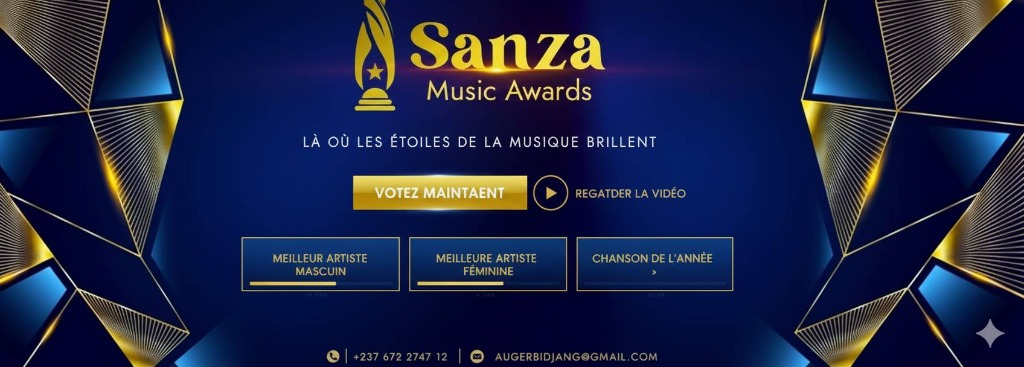
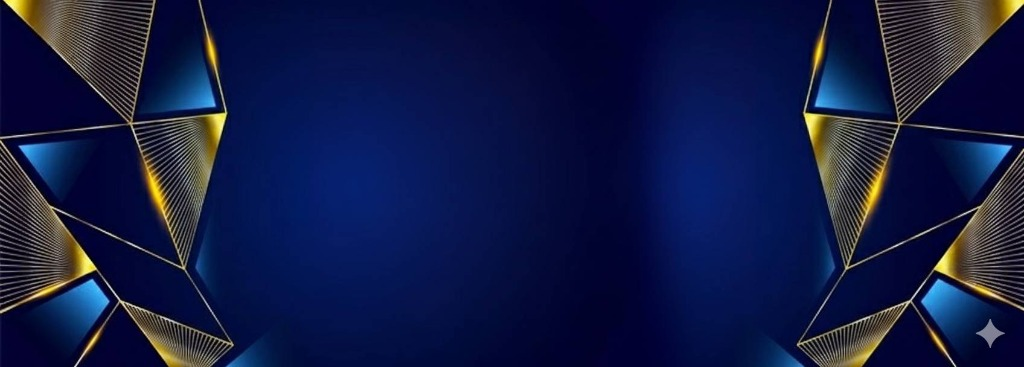
UI: Refined premium background and fixed category redirection

diff --git a/src/pages/Landing.jsx b/src/pages/Landing.jsx
@@ -6,14 +6,20 @@ import SanzaTrophy from '../components/ui/SanzaTrophy';
 const Landing = () => {
     return (
         <div className="flex flex-col min-h-screen bg-[#051040] text-white pb-24 font-sans overflow-x-hidden relative">
-            {/* Background with deep blue gradient & geometric pattern */}
-            <div className="fixed inset-0 z-0">
+            {/* Dynamic Luxury Background */}
+            <div className="fixed inset-0 z-0 overflow-hidden">
+                {/* Main Image Layer - Stays centered and covers reasonably */}
                 <div
-                    className="absolute inset-0 bg-cover bg-center bg-no-repeat opacity-40 md:opacity-100 transition-opacity duration-1000"
-                    style={{ backgroundImage: 'url("/hero-bg.png")' }}
+                    className="absolute inset-0 bg-cover bg-center bg-no-repeat transition-all duration-1000 scale-105"
+                    style={{ backgroundImage: 'url("/hero-bg-2.jpg")' }}
                 />
-                <div className="absolute inset-0 bg-gradient-to-b from-[#051040] via-[#051040]/80 to-[#051040]" />
-                <div className="absolute inset-0 bg-[radial-gradient(circle_at_center,_rgba(253,185,49,0.15)_0%,_rgba(5,16,64,0)_60%)]" />
+
+                {/* Dark Overlay for content area - ensures text readability and concentrates focus */}
+                <div className="absolute inset-0 bg-gradient-to-r from-[#051040]/30 via-[#051040]/90 to-[#051040]/30 md:from-transparent md:via-[#051040]/40 md:to-transparent" />
+                <div className="absolute inset-0 bg-gradient-to-b from-[#051040]/60 via-transparent to-[#051040]" />
+
+                {/* Subtle light glow behind the main logo block */}
+                <div className="absolute top-1/2 left-1/2 -translate-x-1/2 -translate-y-1/2 w-full h-full bg-[radial-gradient(circle_at_center,_rgba(253,185,49,0.1)_0%,_rgba(5,16,64,0)_50%)]" />
             </div>
 
             {/* Header */}
@@ -32,35 +38,35 @@ const Landing = () => {
 
             <div className="flex-1 flex flex-col items-center justify-center relative w-full z-10">
 
-                {/* Hero Section */}
+                {/* Hero Section Content */}
                 <div className="w-full min-h-[70vh] flex flex-col items-center justify-center p-4">
 
                     {/* Main Logo Block */}
-                    <div className="flex flex-row items-center justify-center gap-2 md:gap-6 mb-12 transform scale-90 md:scale-100">
+                    <div className="flex flex-row items-center justify-center gap-4 md:gap-8 mb-12 transform scale-90 md:scale-100">
                         {/* Trophy Icon */}
                         <motion.div
-                            animate={{ y: [-4, 4, -4] }}
-                            transition={{ duration: 12, repeat: Infinity, ease: "easeInOut" }}
-                            className="h-[80px] md:h-[180px] lg:h-[240px] flex-shrink-0"
+                            animate={{ y: [-6, 6, -6] }}
+                            transition={{ duration: 10, repeat: Infinity, ease: "easeInOut" }}
+                            className="h-[120px] md:h-[220px] lg:h-[280px] flex-shrink-0"
                         >
-                            <SanzaTrophy className="h-full w-auto drop-shadow-[0_0_25px_rgba(253,185,49,0.5)]" />
+                            <SanzaTrophy className="h-full w-auto drop-shadow-[0_0_35px_rgba(253,185,49,0.6)]" />
                         </motion.div>
 
                         {/* Text Block */}
                         <div className="flex flex-col items-start justify-center">
                             <motion.h1
-                                initial={{ opacity: 0, x: 20 }}
+                                initial={{ opacity: 0, x: 30 }}
                                 animate={{ opacity: 1, x: 0 }}
                                 transition={{ duration: 0.8 }}
-                                className="text-5xl md:text-8xl lg:text-9xl font-bold leading-none tracking-tighter text-transparent bg-clip-text bg-gradient-to-b from-[#FFD700] via-[#FDB931] to-[#C49102] drop-shadow-sm font-serif"
+                                className="text-6xl md:text-9xl lg:text-[10rem] font-bold leading-none tracking-tighter text-transparent bg-clip-text bg-gradient-to-b from-[#FFD700] via-[#FDB931] to-[#C49102] drop-shadow-sm font-serif"
                             >
                                 Sanza
                             </motion.h1>
                             <motion.h2
-                                initial={{ opacity: 0, x: 20 }}
+                                initial={{ opacity: 0, x: 30 }}
                                 animate={{ opacity: 1, x: 0 }}
                                 transition={{ duration: 0.8, delay: 0.2 }}
-                                className="text-lg md:text-3xl lg:text-4xl font-light text-[#FDB931] uppercase tracking-[0.2em] md:tracking-[0.3em] pl-1 md:pl-2"
+                                className="text-xl md:text-4xl lg:text-5xl font-light text-[#FDB931] uppercase tracking-[0.2em] md:tracking-[0.4em] pl-1 md:pl-3"
                             >
                                 Music Awards
                             </motion.h2>
@@ -72,53 +78,57 @@ const Landing = () => {
                         initial={{ opacity: 0 }}
                         animate={{ opacity: 1 }}
                         transition={{ delay: 0.5, duration: 1 }}
-                        className="text-white text-[10px] md:text-sm tracking-[0.2em] md:tracking-[0.4em] uppercase mb-16 font-light text-center px-4"
+                        className="text-white text-[10px] md:text-sm tracking-[0.3em] md:tracking-[0.5em] uppercase mb-16 font-light text-center px-4"
                     >
                         Là où les étoiles de la musique brillent
                     </motion.p>
 
                     {/* CTA Buttons */}
                     <motion.div
-                        initial={{ opacity: 0, y: 20 }}
+                        initial={{ opacity: 0, y: 30 }}
                         animate={{ opacity: 1, y: 0 }}
                         transition={{ delay: 0.7 }}
-                        className="flex flex-col items-center gap-8 w-full max-w-md"
+                        className="flex flex-col items-center gap-10 w-full max-w-md"
                     >
                         <Link to="/categories" className="w-full md:w-auto">
-                            <button className="w-full md:w-auto px-12 py-4 bg-gradient-to-r from-[#DF9F28] via-[#FDB931] to-[#DF9F28] text-[#051040] font-bold uppercase tracking-widest text-sm rounded-full shadow-[0_4px_20px_rgba(253,185,49,0.3)] hover:scale-105 transition-transform duration-300">
+                            <button className="w-full md:w-auto px-16 py-5 bg-gradient-to-r from-[#DF9F28] via-[#FDB931] to-[#DF9F28] text-[#051040] font-black uppercase tracking-widest text-sm rounded-full shadow-[0_4px_30px_rgba(253,185,49,0.4)] hover:scale-105 active:scale-95 transition-all duration-300">
                                 Votez Maintenant
                             </button>
                         </Link>
 
                         <button
                             onClick={() => window.open('https://youtube.com', '_blank')}
-                            className="group flex items-center gap-3 text-[#FDB931]/90 hover:text-white transition-colors uppercase text-[10px] md:text-xs font-medium tracking-widest"
+                            className="group flex items-center gap-4 text-[#FDB931]/90 hover:text-white transition-colors uppercase text-[10px] md:text-xs font-bold tracking-[0.3em]"
                         >
-                            <div className="w-8 h-8 rounded-full border border-[#FDB931] group-hover:border-white flex items-center justify-center transition-colors">
-                                <Play size={10} fill="currentColor" className="ml-0.5" />
+                            <div className="w-10 h-10 rounded-full border border-[#FDB931] group-hover:border-white group-hover:scale-110 flex items-center justify-center transition-all duration-300">
+                                <Play size={12} fill="currentColor" className="ml-1" />
                             </div>
                             Regarder la vidéo
                         </button>
                     </motion.div>
                 </div>
 
-                {/* Footer Category Preview (Desktop Only for Layout Balance, visible on mobile as vertical list) */}
+                {/* Footer Category Preview (Responsive & Linked) */}
                 <motion.div
-                    initial={{ opacity: 0 }}
-                    animate={{ opacity: 1 }}
+                    initial={{ opacity: 0, y: 50 }}
+                    animate={{ opacity: 1, y: 0 }}
                     transition={{ delay: 1 }}
-                    className="w-full max-w-6xl mx-auto px-4 mt-8 pb-8 z-10"
+                    className="w-full max-w-6xl mx-auto px-4 mt-12 pb-12 z-10"
                 >
-                    <div className="grid grid-cols-1 md:grid-cols-3 gap-3 md:gap-6">
+                    <div className="grid grid-cols-1 md:grid-cols-3 gap-4 md:gap-8">
                         {[
-                            { title: "MEILLEUR ARTISTE", subtitle: "MASCULIN" },
-                            { title: "MEILLEURE ARTISTE", subtitle: "FÉMININE" },
-                            { title: "CHANSON DE", subtitle: "L'ANNÉE" }
+                            { title: "MEILLEUR ARTISTE", subtitle: "MASCULIN", id: 2 },
+                            { title: "MEILLEURE ARTISTE", subtitle: "FÉMININE", id: 3 },
+                            { title: "CHANSON DE", subtitle: "L'ANNÉE", id: 5 }
                         ].map((card, idx) => (
-                            <div key={idx} className="bg-[#051040]/60 backdrop-blur-sm border border-[#FDB931]/20 p-4 md:p-6 text-center group hover:bg-[#FDB931]/5 transition-colors rounded-lg">
-                                <h3 className="text-[#FDB931]/60 text-[9px] uppercase tracking-widest mb-1 group-hover:text-[#FDB931] transition-colors">{card.title}</h3>
-                                <p className="text-white font-serif font-bold tracking-wider">{card.subtitle}</p>
-                            </div>
+                            <Link key={idx} to={`/nominees?categoryId=${card.id}`}>
+                                <div className="bg-[#051040]/70 backdrop-blur-md border border-[#FDB931]/30 p-6 md:p-8 text-center group hover:bg-[#FDB931]/10 hover:border-[#FDB931] transition-all duration-500 rounded-2xl relative overflow-hidden">
+                                    <div className="absolute top-0 left-0 w-full h-[1px] bg-gradient-to-r from-transparent via-[#FDB931]/50 to-transparent" />
+                                    <h3 className="text-[#FDB931]/80 text-[10px] uppercase tracking-[0.3em] mb-2 group-hover:text-white transition-colors">{card.title}</h3>
+                                    <p className="text-white text-xl font-serif font-bold tracking-wider group-hover:scale-105 transition-transform duration-500">{card.subtitle}</p>
+                                    <div className="mt-4 h-[1px] w-12 mx-auto bg-[#FDB931]/20 group-hover:w-24 group-hover:bg-[#FDB931] transition-all duration-700" />
+                                </div>
+                            </Link>
                         ))}
                     </div>
                 </motion.div>
